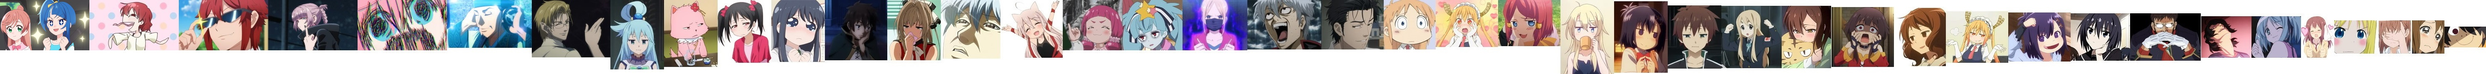
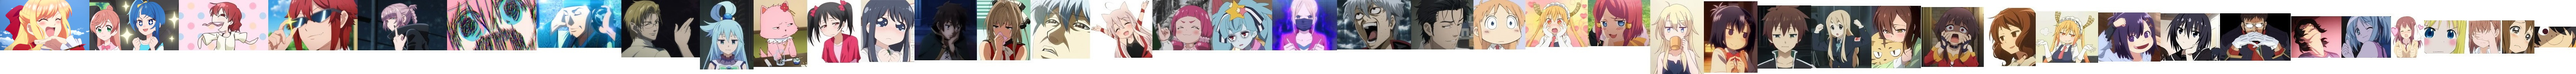
adds hall of fame face

diff --git a/src/_commentfaces-static.scss b/src/_commentfaces-static.scss
@@ -323,7 +323,7 @@ $static-comment-faces: (
 				"harukathink": ("height": 160, "width": 112, "position": 8139),
 				"kannathumbs": ("height": 162, "width": 150, "position": 8289),
 				"konosubawot4": ("height": 166, "width": 129, "position": 8418))),
-		33: ("sprite-sheet": "cf-static-046", "total-width": 5979, "items": ("araragi-1": ("height": 50, "width": 100, "position": 100),
+		33: ("sprite-sheet": "cf-static-046", "total-width": 6194, "items": ("araragi-1": ("height": 50, "width": 100, "position": 100),
 				"yui-crying": ("height": 80, "width": 78, "position": 178),
 				"facepalm": ("height": 80, "width": 80, "position": 258),
 				"gununu": ("height": 80, "width": 107, "position": 365),
@@ -358,19 +358,19 @@ $static-comment-faces: (
 				"sideeyes": ("height": 161, "width": 129, "position": 4382),
 				"konosubawot": ("height": 167, "width": 129, "position": 4511))),
 
-		34: ("sprite-sheet": "cf-static-046", "total-width": 5979, "items": (
+		34: ("sprite-sheet": "cf-static-046", "total-width": 6194, "items": (
 				"michaelwink": 			("height": 137, "width": 189, "position": 4700),
 				"listen": 				("height": 115, "width": 204, "position": 4904),
 				"bocchitheshock":     	("height": 121, "width": 215, "position": 5119),
 				"angryvampire": 		("height": 121, "width": 215, "position": 5334),
 				"tomboyshades":     	("height": 121, "width": 215, "position": 5549),
 				"trololol":     		("height": 121, "width": 215, "position": 5764),
-				"skyhype":	     		("height": 121, "width": 215, "position": 5979))),
+				"skyhype":	     		("height": 121, "width": 215, "position": 5979),
+				"ohoho":	     		("height": 121, "width": 215, "position": 6194))),
 
 		35: ("sprite-sheet": "cf-static-039", "total-width": 3805, "items": (
 				"seasonalapproval": 	("height": 121, "width": 215, "position": 215),
-				"seasonalblush": 		("height": 121, "width": 215, "position": 430),
-				"seasonalblush2": 		("height": 121, "width": 215, "position": 645),
+				"seasonalblush": 		("height": 121, "width": 215, "position": 645),
 				"seasonalconfused":     ("height": 121, "width": 215, "position": 860),
 				"seasonalcool": 		("height": 121, "width": 215, "position": 1075),
 				"seasonaldepression": 	("height": 121, "width": 215, "position": 1290),
